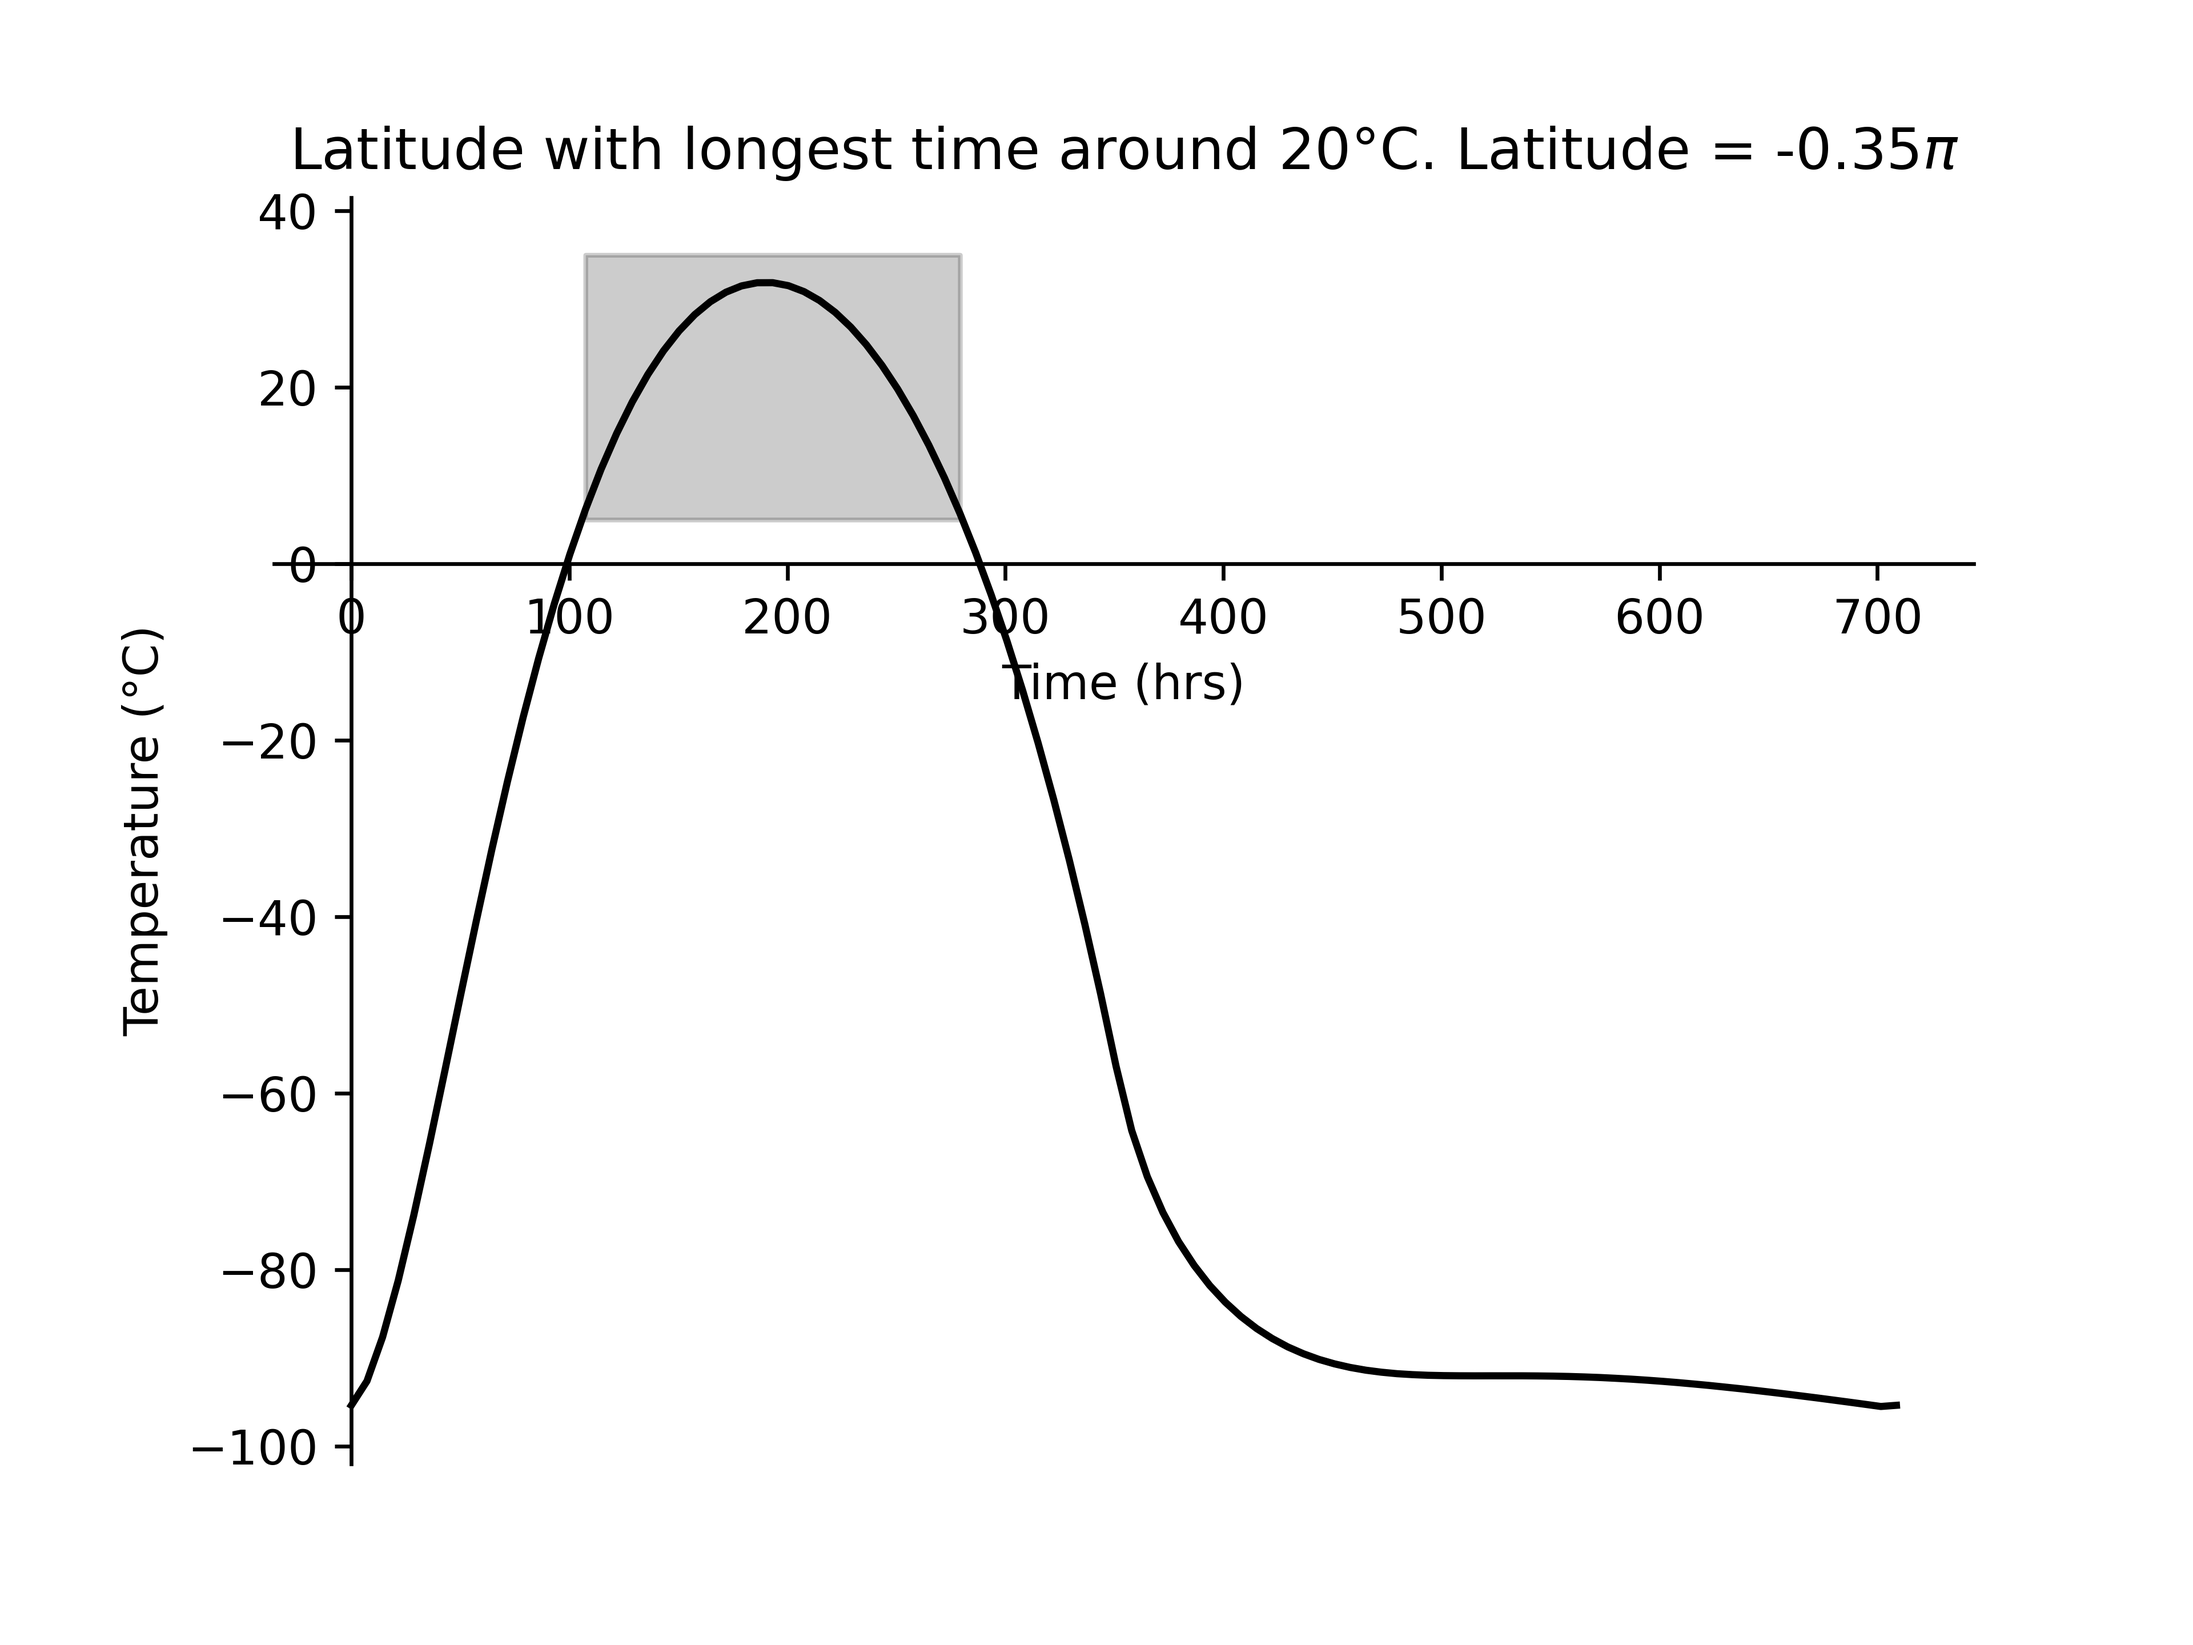
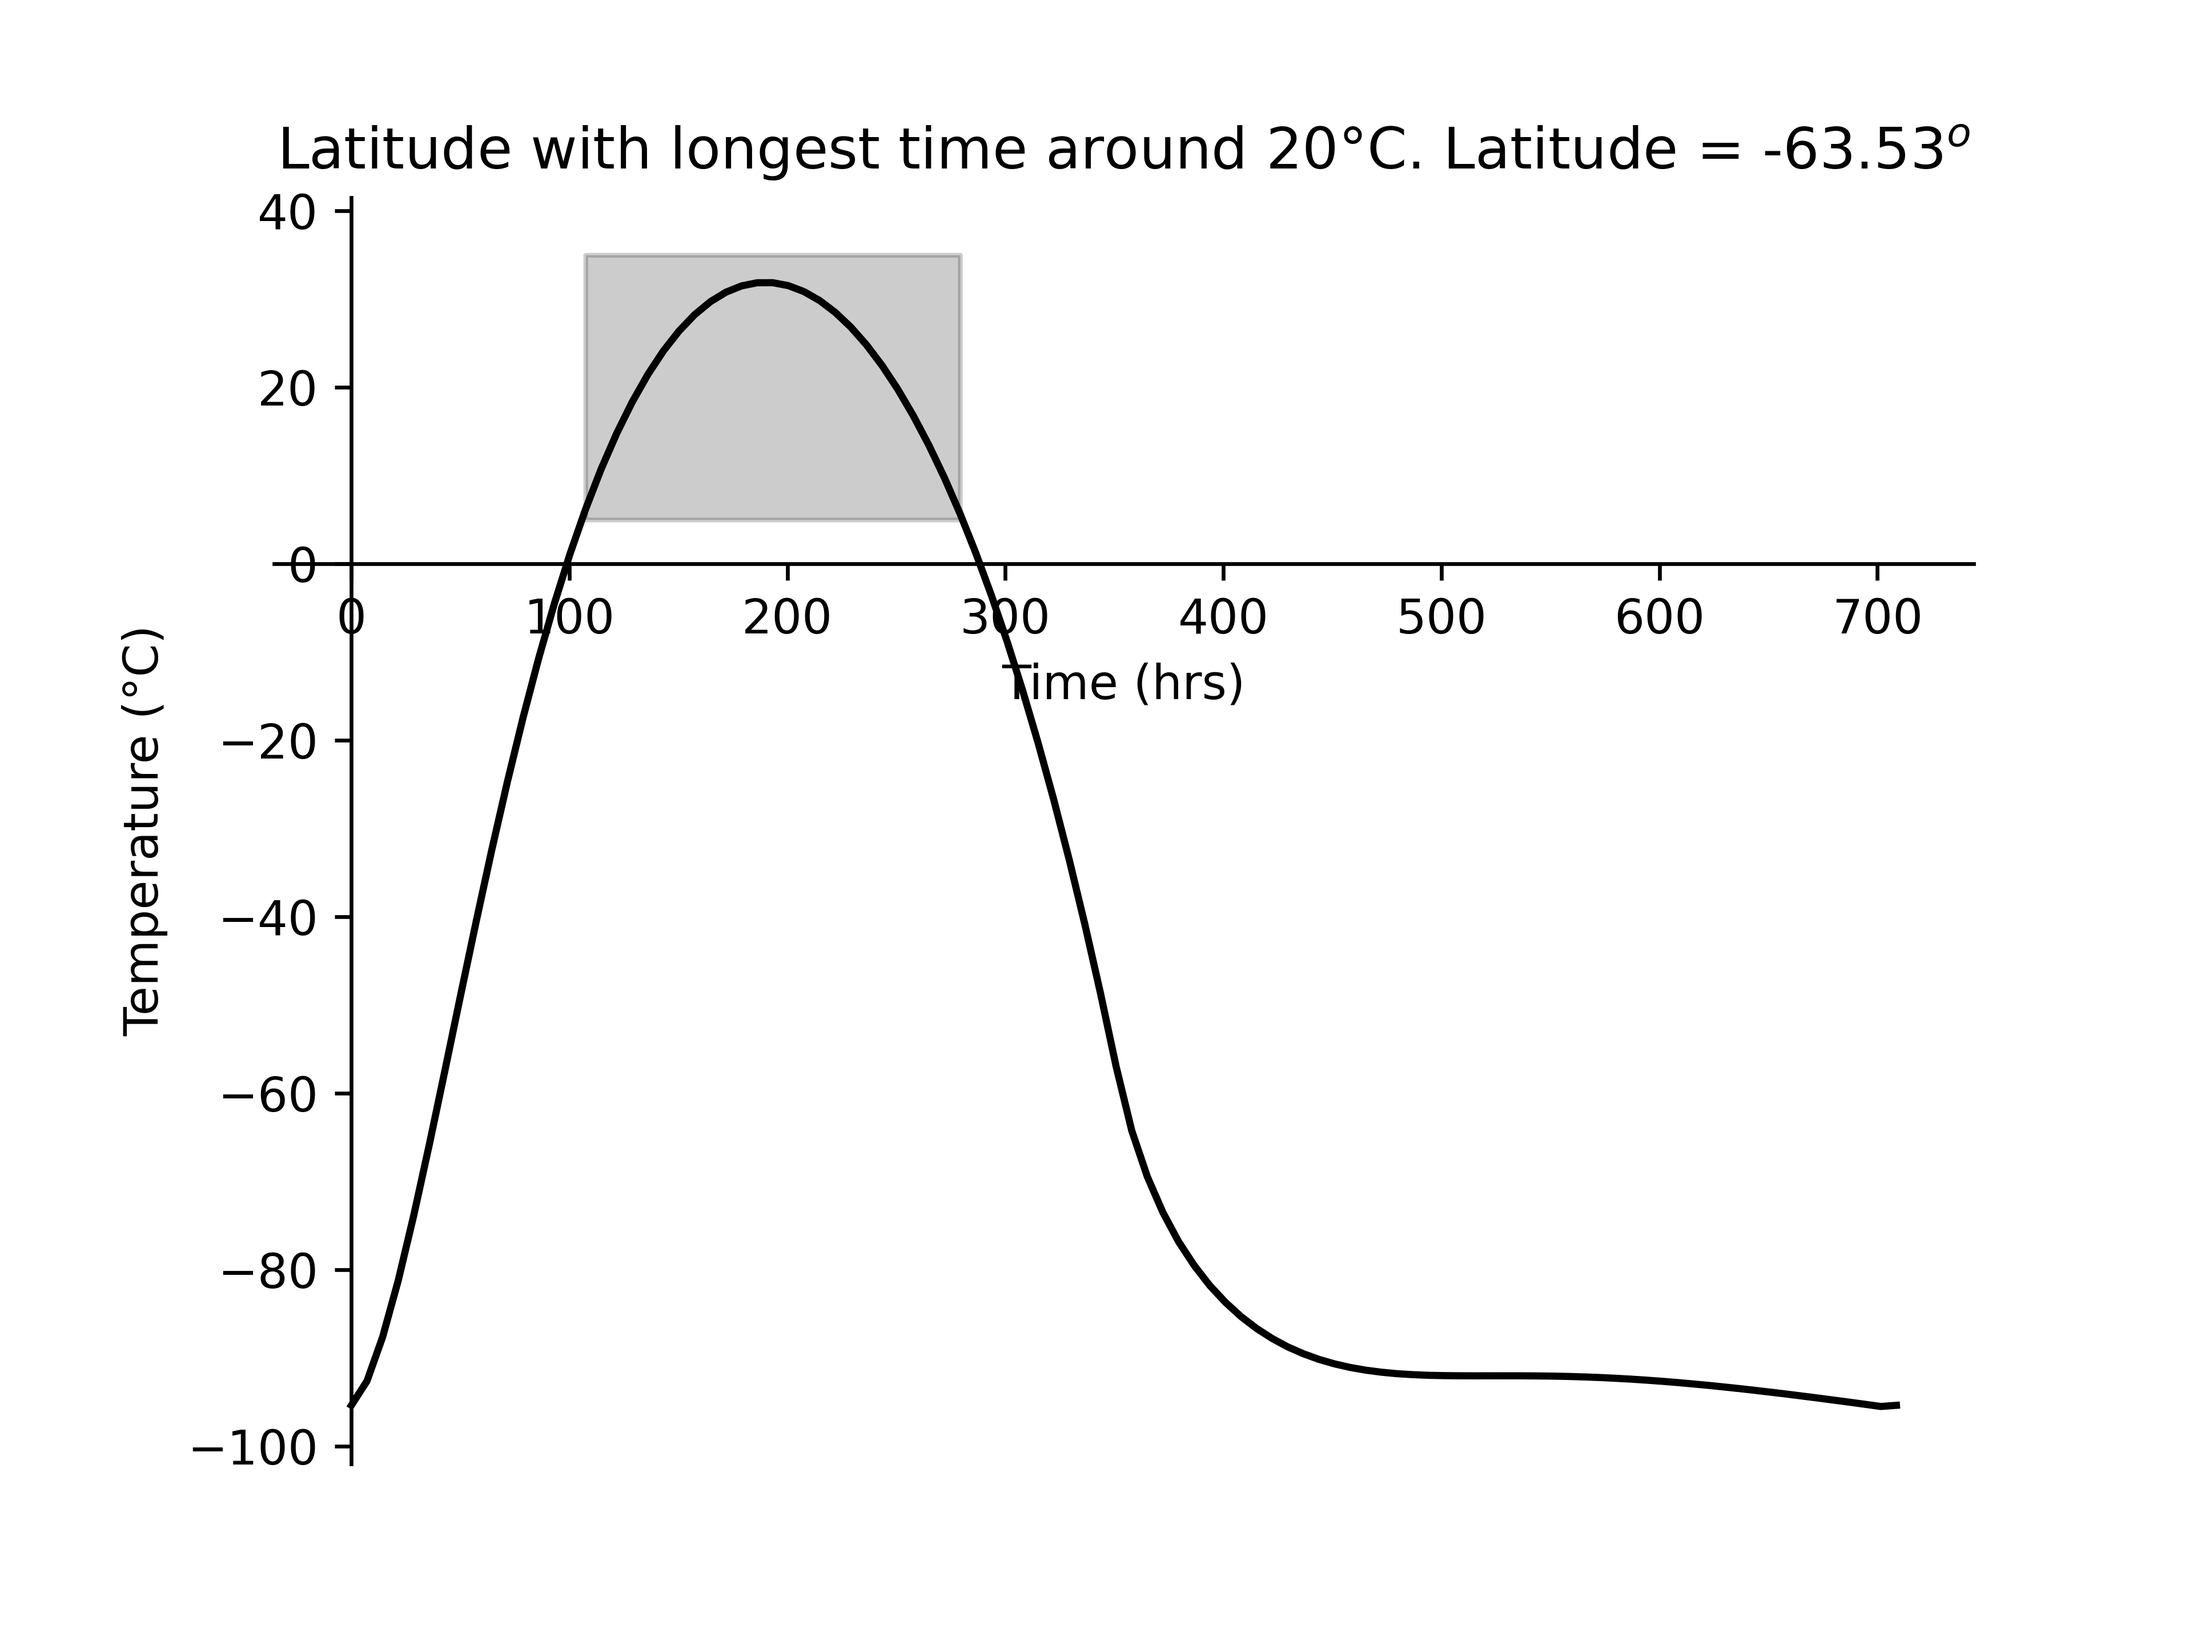
latitude in degrees

Changed region(s): [[0.125, 0.0625, 0.7812, 0.125], [0.8125, 0.0625, 0.9062, 0.125]]

diff --git a/cheeseMoonPlotting.py b/cheeseMoonPlotting.py
@@ -115,7 +115,7 @@ ax2 = fig2.add_subplot(111)
 ax2.plot(time, temps[row_index], c='k')
 ax2.fill_between(time, temps[row_index], perf_temp - error, where=((temps[row_index] <= perf_temp + error) & (temps[row_index] >=perf_temp - error)), color='k', alpha=0.2)
 ax2.fill_between(time, temps[row_index], perf_temp + error, where=((temps[row_index] <= perf_temp + error) & (temps[row_index] >= perf_temp - error)), color='k', alpha=0.2)
-ax2.set_title('Latitude with longest time around {:.0f}°C. Latitude = {:.2f}$\pi$'.format(perf_temp, (0.5 + row_index)/shape[0] - 0.5))
+ax2.set_title('Latitude with longest time around {:.0f}°C. Latitude = {:.2f}$^o$'.format(perf_temp, (0.5 + row_index) * 180/shape[0] - 90))
 # plt.fill_between([0, 2], 20, 30, color='k', alpha=0.2, label='Error Band')
 ax2.spines[["left", "bottom"]].set_position(("data", 0)) # Puts x axis at y=0, can remove
 ax2.spines[["top", "right"]].set_visible(False)
